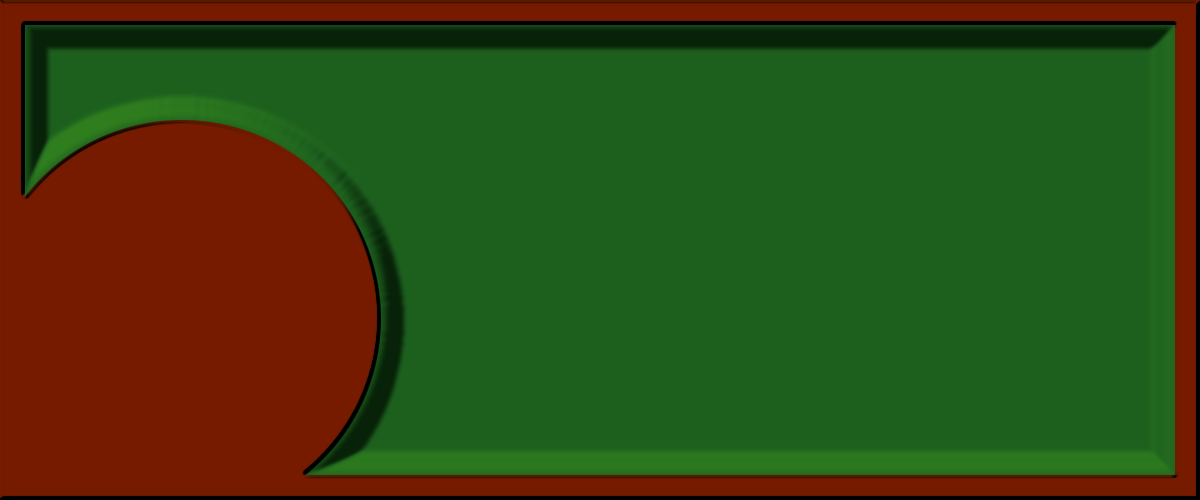
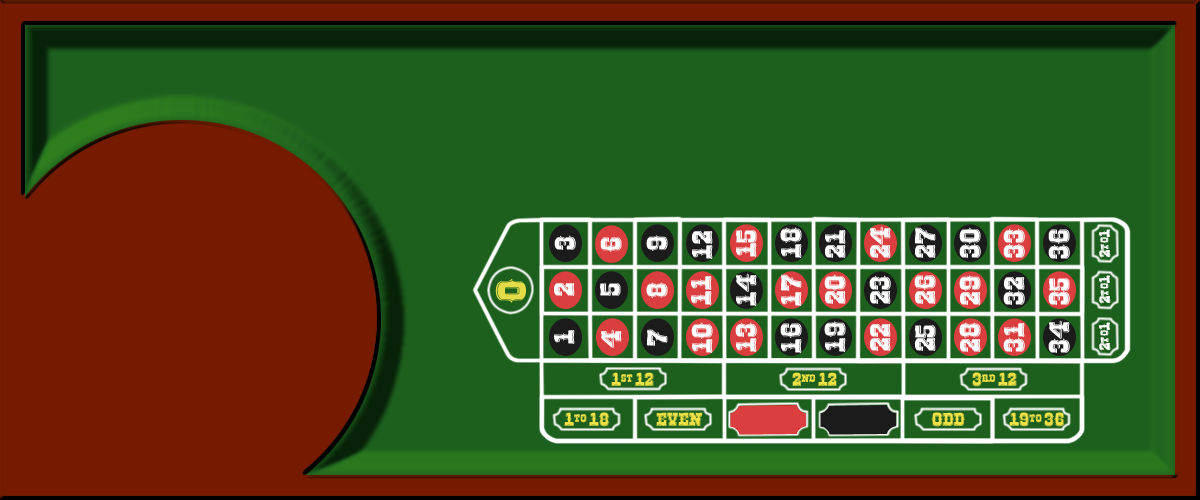
Fixed layout image offsets

Changed region(s): [[0.37, 0.42, 0.9558, 0.9]]

diff --git a/myscript.js b/myscript.js
@@ -26,7 +26,7 @@ var code_chip={};
 var chip_count={};
 var bets={};
 var payout={0:35,112:2,212:2,312:2,118:1,222:1,200:1,300:1,111:1,218:1,401:2,402:2,403:2};
-var chipPos={0:[63,89],112:[185,180],212:[365,180],312:[545,180],118:[135,220],222:[230,220],200:[320,220],300:[410,220],111:[500,220],218:[590,220],401:[657,136],402:[657,86],403:[657,46]};
+var chipPos={0:[63,89],112:[185,180],212:[365,180],312:[545,180],118:[135,220],222:[230,220],200:[320,220],300:[410,220],111:[500,220],218:[590,220],401:[657,137],402:[657,90],403:[657,43]};
 
 
 
@@ -76,14 +76,13 @@ image: "2.png",
 rotation:0
 });
 
-var layout=canvas.display.image({
+var layout=canvas.display.rectangle({
 x:450,
 y:canvas.height/2-50,
 width:700,
 height:300,
 origin:{x:"top", y:"left"},
-image: "3.png",
-stroke: "2px #fff"
+stroke: "2px #a24"
 });
 
 var ball= canvas.display.arc({

diff --git a/index.html b/index.html
@@ -10,7 +10,6 @@
 <body>
 <div id="canvas_div" style="position:relative;" height=500px width=1200px> 
 <canvas id='canvas' height=500px width=1200px > <p> Your Browser does not support Canvas!!! </p></canvas>
-<img src="3.png" width=700px height=300px style="position:absolute; top:200px; left:450px "/>
 
 </div>
 </body>

diff --git a/main.css b/main.css
@@ -2,7 +2,7 @@
 	margin:0 auto;
 	width:1200px;
 	height:500px;
-	background:url(1.png);
+	background:url(4.png);
 	border:1px solid #000;
 }
 
